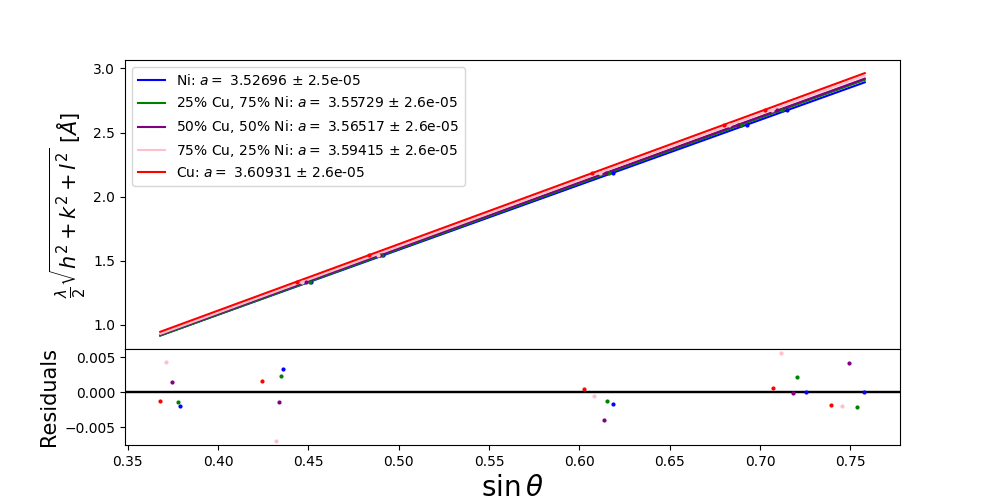
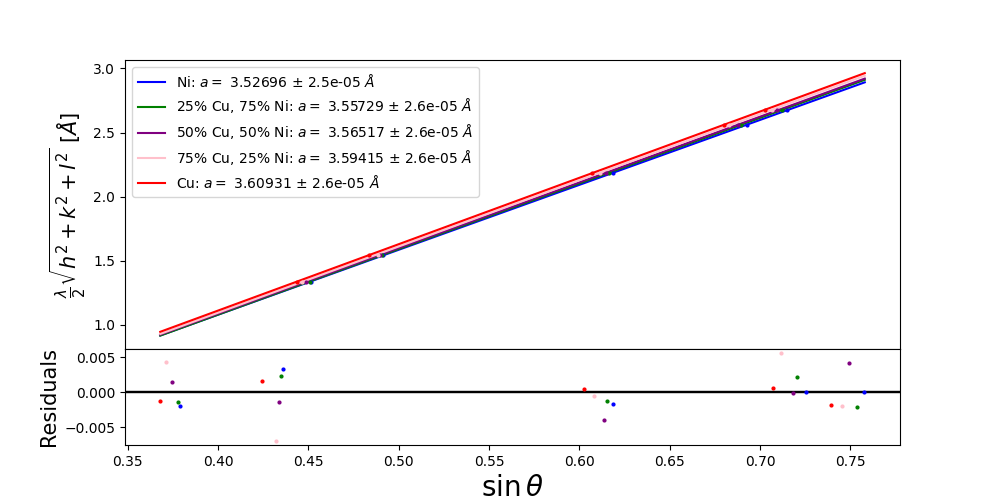
adjust lattice param plot

Changed region(s): [[0.124, 0.15, 0.496, 0.39]]

diff --git a/lattice_param_fitting.py b/lattice_param_fitting.py
@@ -39,7 +39,7 @@ for i in range(len(fits)):
     popt,pcov=curve_fit(linear,angles[i],miller*lam/2,p0=[3.61,0],
                     sigma=err_lam*miller/2*5,absolute_sigma=True)
     x=np.linspace(15,55,1000)
-    label = names[i] + r': $a=$ ' + str(np.round(popt[0],5)) + ' $\pm$ ' + str(np.round(np.sqrt(pcov[0][0]),6))
+    label = names[i] + r': $a=$ ' + str(np.round(popt[0],5)) + ' $\pm$ ' + str(np.round(np.sqrt(pcov[0][0]),6)) + ' $\AA$'
     ax[0].plot(np.sin(x*np.pi/180),linear(x,*popt),label=label,color=color[i])
     ax[1].errorbar(np.sin(angles[i]*np.pi/180),miller*lam/2-linear(angles[i],*popt),
                yerr=err_lam*miller/2,xerr=np.cos(angles[i]*np.pi/180)*np.pi/180*errs[i]/2,
